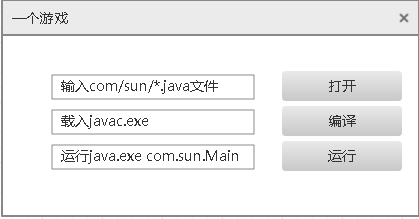
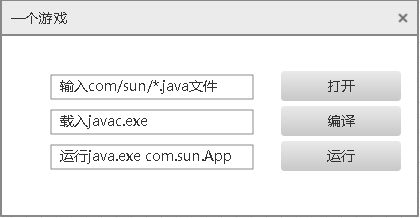
可执行jar包

diff --git a/Readme.md b/Readme.md
@@ -45,11 +45,13 @@
 ![gamefirst][6]
 
 ![gameFirstMain][7]
+
 2. 为了解决管理的问题，我们在项目名下面，引入了包机制,我们把所有的`*.java`文件都放在`com.sun`底下
 然后我们再次`javac com/sun/*.java`, 然后运行`java com.sun.Main`, 前提我们的java文件头部得包含
 `Package com.sun` ; 
 
 ![gameSecond][8]
+
 *我们解决了什么问题？ 没有！*
 我们只是引入了一个包机制。但是不代表没用，也就是说我们可以把com/sun解析成com.sun类， 在这一步做了一次具备重要意义的概念引入
 `全路径类名`, 也就是我们的Main类，Button类,People类不在没有类路径了，他们都在com.sun底下。
@@ -185,6 +187,7 @@ E:\codeRoom\java\javabase\proj3>java -jar hello.jar
 Hello world! 8
 ```
 
+![GameThird][9]
 ## Proj4
 
 ### 5. 引入了模块的概念
@@ -430,3 +433,4 @@ javac编译，生产module(包含module-info.jar)或者非module的jar包(可能
 [6]:https://github.com/jueqingsizhe66/whyJavaModule/blob/develop/gameFirst.png 
 [7]:https://github.com/jueqingsizhe66/whyJavaModule/blob/develop/gameFirstMain.png 
 [8]:https://github.com/jueqingsizhe66/whyJavaModule/blob/develop/gameSecond.png 
+[8]:https://github.com/jueqingsizhe66/whyJavaModule/blob/develop/gameThird.png 
